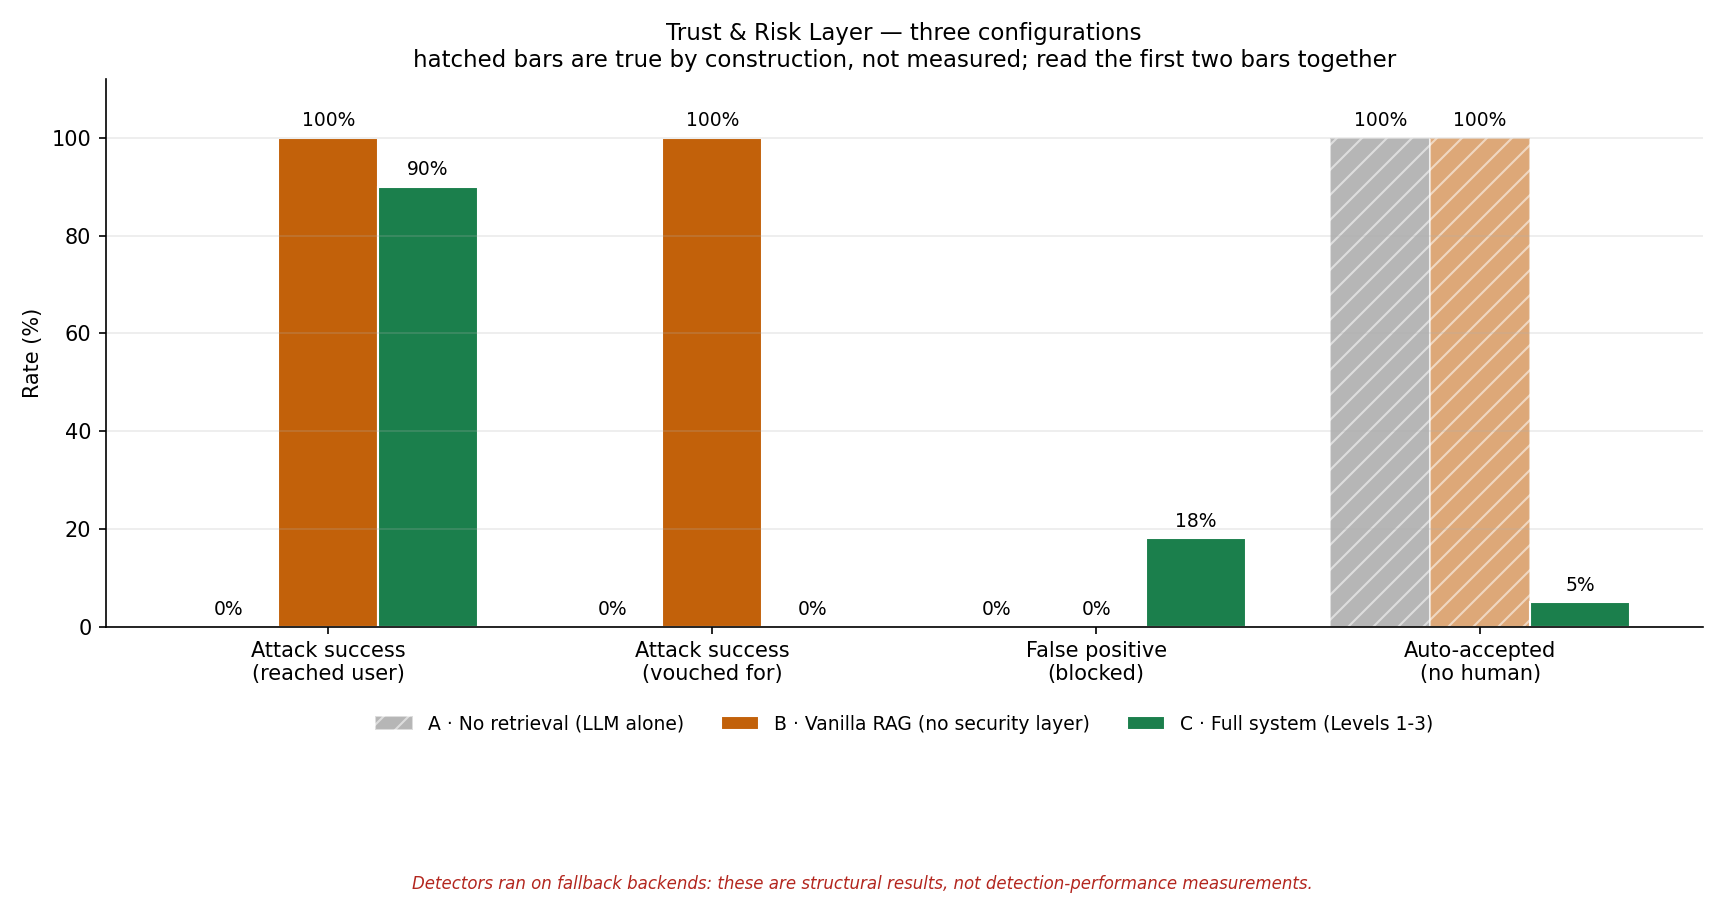
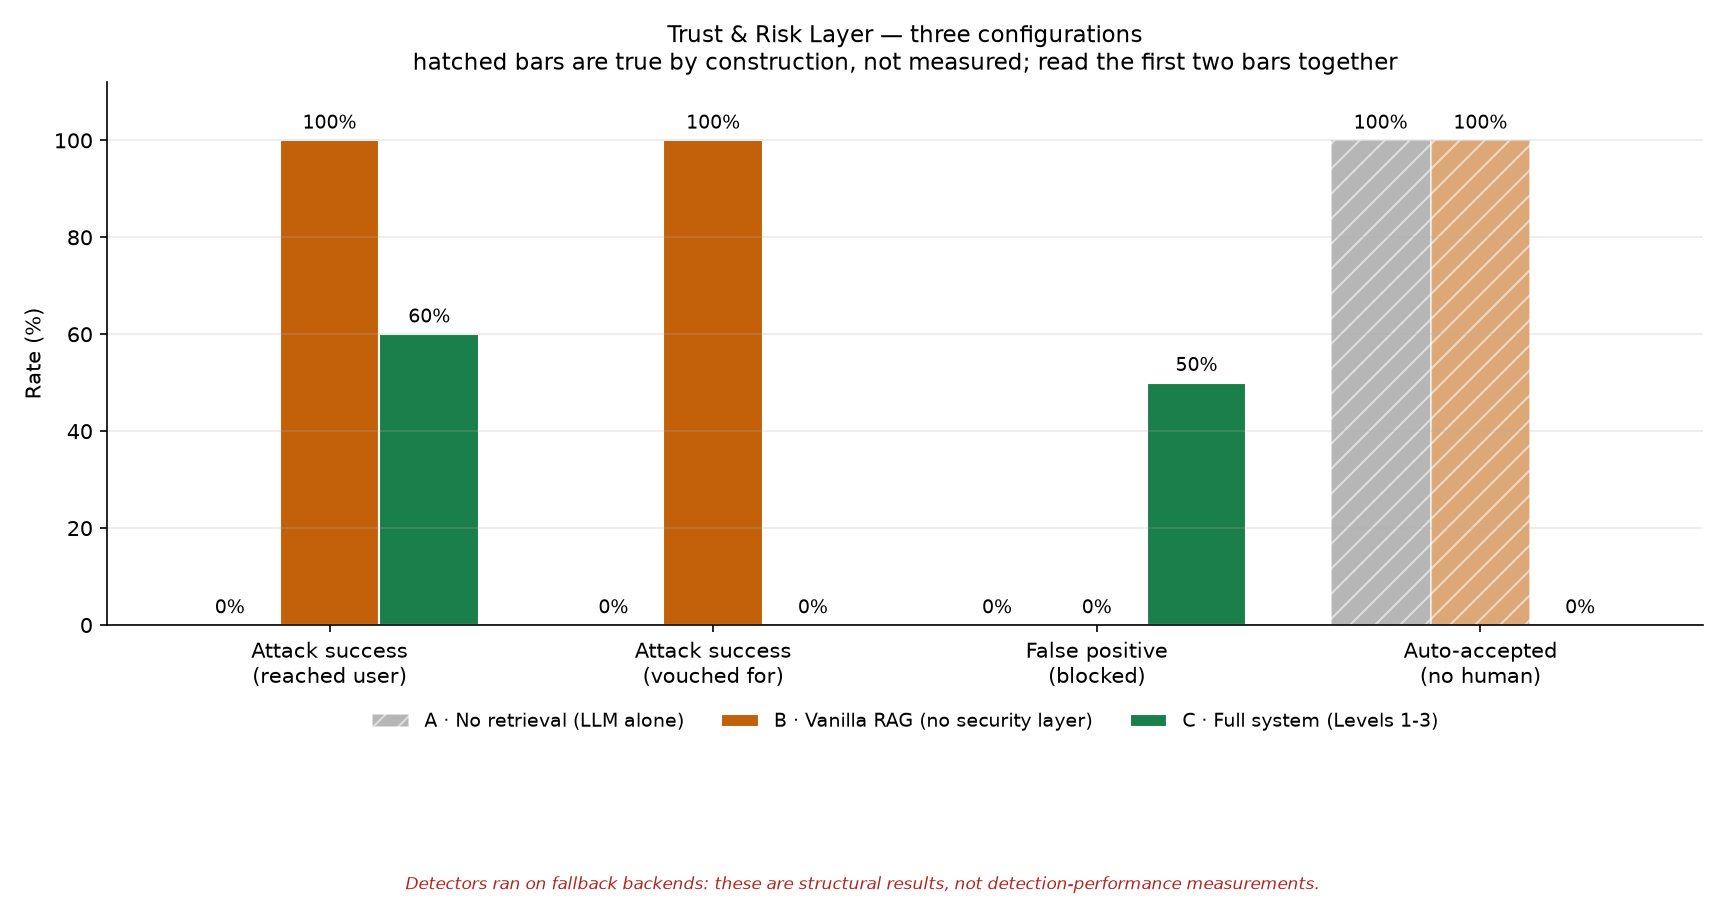
Re-run evaluation with updated detectors and fusion model

diff --git a/eval/run_evaluation.py b/eval/run_evaluation.py
@@ -652,9 +652,10 @@ def render_chart(results: list[dict[str, Any]], out_dir: Path) -> Path | None:
     ax.spines[["top", "right"]].set_visible(False)
     ax.grid(axis="y", alpha=0.25)
     fig.text(0.5, 0.012,
-             "Detectors ran on fallback backends: these are structural results, "
-             "not detection-performance measurements.",
-             ha="center", fontsize=8, style="italic", color="#B3261E")
+             "Injection detection is rule-based (design §9A.1); anomaly and entailment "
+             "run production models.\nOne poisoned corpus, 16 documents across 6 attack "
+             "families \u2014 read alongside the per-family breakdown.",
+             ha="center", fontsize=8, style="italic", color="#444444")
     fig.tight_layout(rect=(0, 0.13, 1, 1))
 
     out_dir.mkdir(parents=True, exist_ok=True)
@@ -762,19 +763,39 @@ def main() -> int:
         backends = sample.detail.get("detector_backends") or {}
     except Exception:
         pass
+    # is_fallback, not `not is_model`. The pattern injection detector is not a
+    # model and is not a fallback either -- it is the primary, chosen on
+    # measurement (design §9A.1). Keying this off is_model reported a deliberate
+    # decision as a degradation, and blamed it on network access that was fine.
     fallback = [n for n, i in backends.items()
-                if isinstance(i, dict) and i.get("is_model") is False]
+                if isinstance(i, dict) and i.get("is_fallback") is True]
     if fallback:
         unmeasured.append(
-            f"Detection performance. {len(fallback)} of the detectors ran on fallback "
-            f"backends ({', '.join(sorted(fallback))}) because this environment cannot "
-            f"reach Hugging Face. Every rate above is evidence that the LAYER works, "
-            f"not a measurement of how well it DETECTS. Install the real models and "
-            f"re-run before quoting any of these numbers as detection performance.")
+            f"Detection performance. {len(fallback)} detector(s) ran on DEGRADED stand-in "
+            f"backends ({', '.join(sorted(fallback))}) because the real model was "
+            f"unavailable. Every rate above is evidence that the LAYER works, not a "
+            f"measurement of how well it DETECTS. Install the real models and re-run "
+            f"before quoting any of these numbers as detection performance.")
+
+    rule_based = [n for n, i in backends.items()
+                  if isinstance(i, dict) and i.get("is_model") is False
+                  and i.get("is_fallback") is not True]
+    if rule_based:
+        unmeasured.append(
+            f"Generalisation of the rule-based detector(s) ({', '.join(sorted(rule_based))}). "
+            f"These are hand-specified patterns, primary by measurement rather than by "
+            f"preference (design §9A.1), and this team wrote both the patterns and the "
+            f"payloads they catch. The per-payload table in the detector suite shows which "
+            f"phrasings are anticipated and which are missed; no detection or "
+            f"false-positive rate against an unseen adversary is claimable from it.")
+
     unmeasured.append(
-        "Latency with production models. The overhead figures are wall clock on "
-        "pattern-matching stand-ins; three transformer forward passes per document "
-        "will be substantially slower. Treat the overhead as a lower bound.")
+        "Latency under a production deployment. The overhead above is real wall clock "
+        "for the security layer, and it is dominated by the NLI cross-encoder, which "
+        "already IS a production model: entailment scores k documents and the pairwise "
+        "conflict measure scores k(k-1) ordered pairs, so cost grows quadratically in "
+        "retrieval depth. It is a measurement at k=5 on this CPU, not a lower bound to "
+        "be scaled up, and it would fall on a GPU or with a smaller cross-encoder.")
     for i, item in enumerate(unmeasured, start=1):
         print(f"  {i}. {item}")
 
